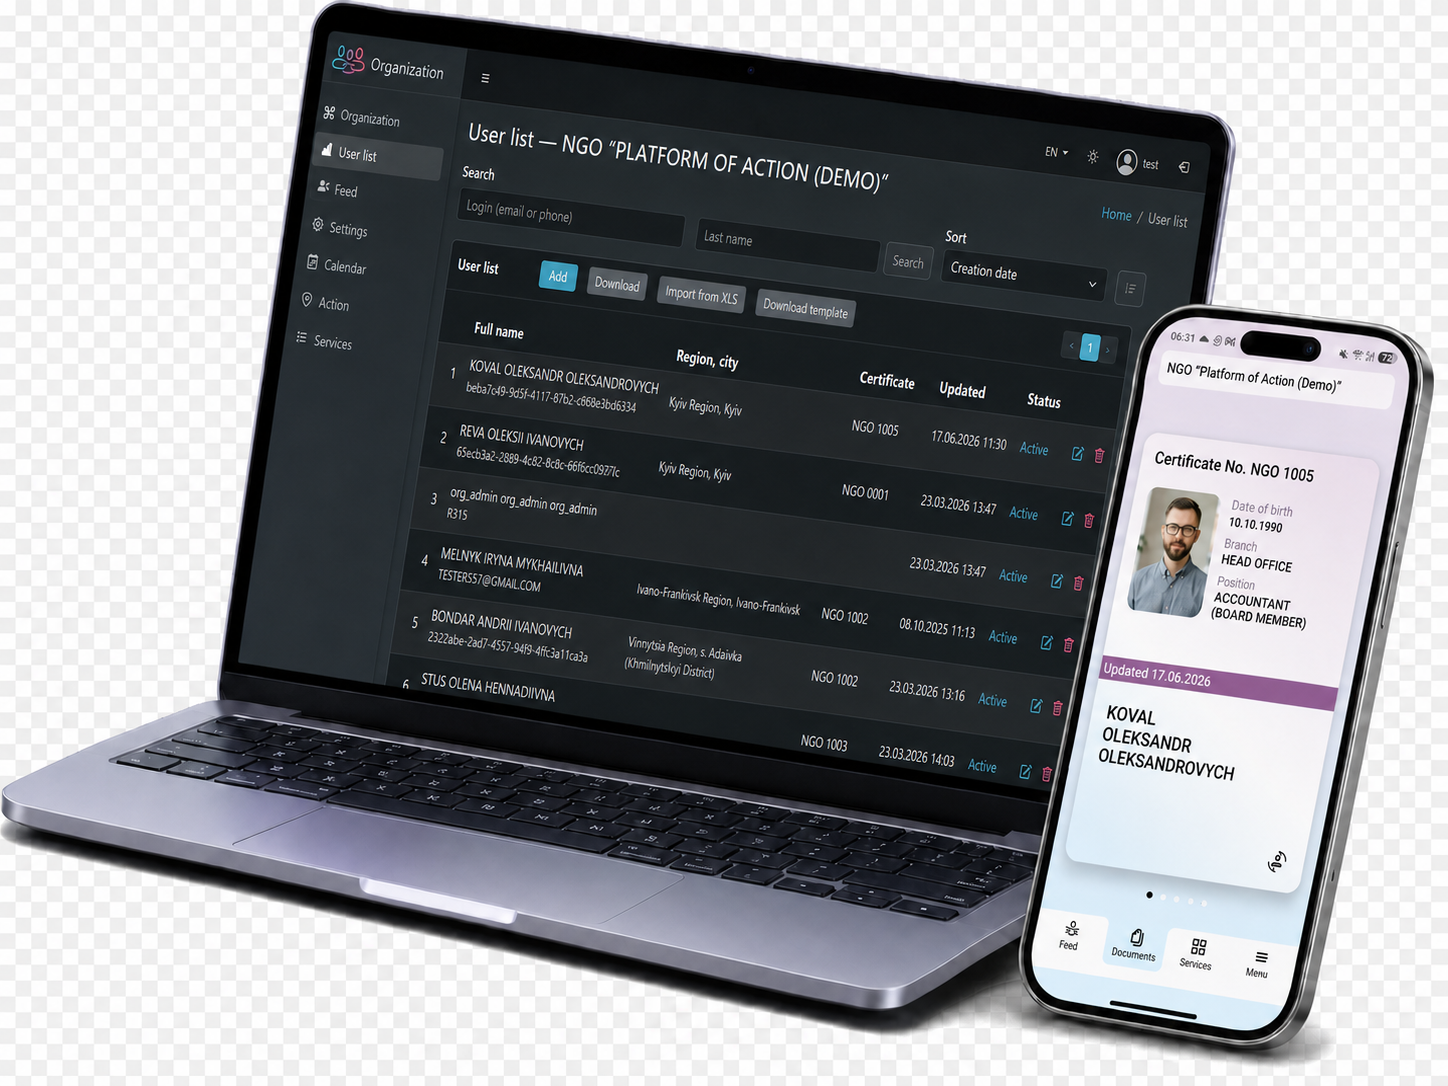
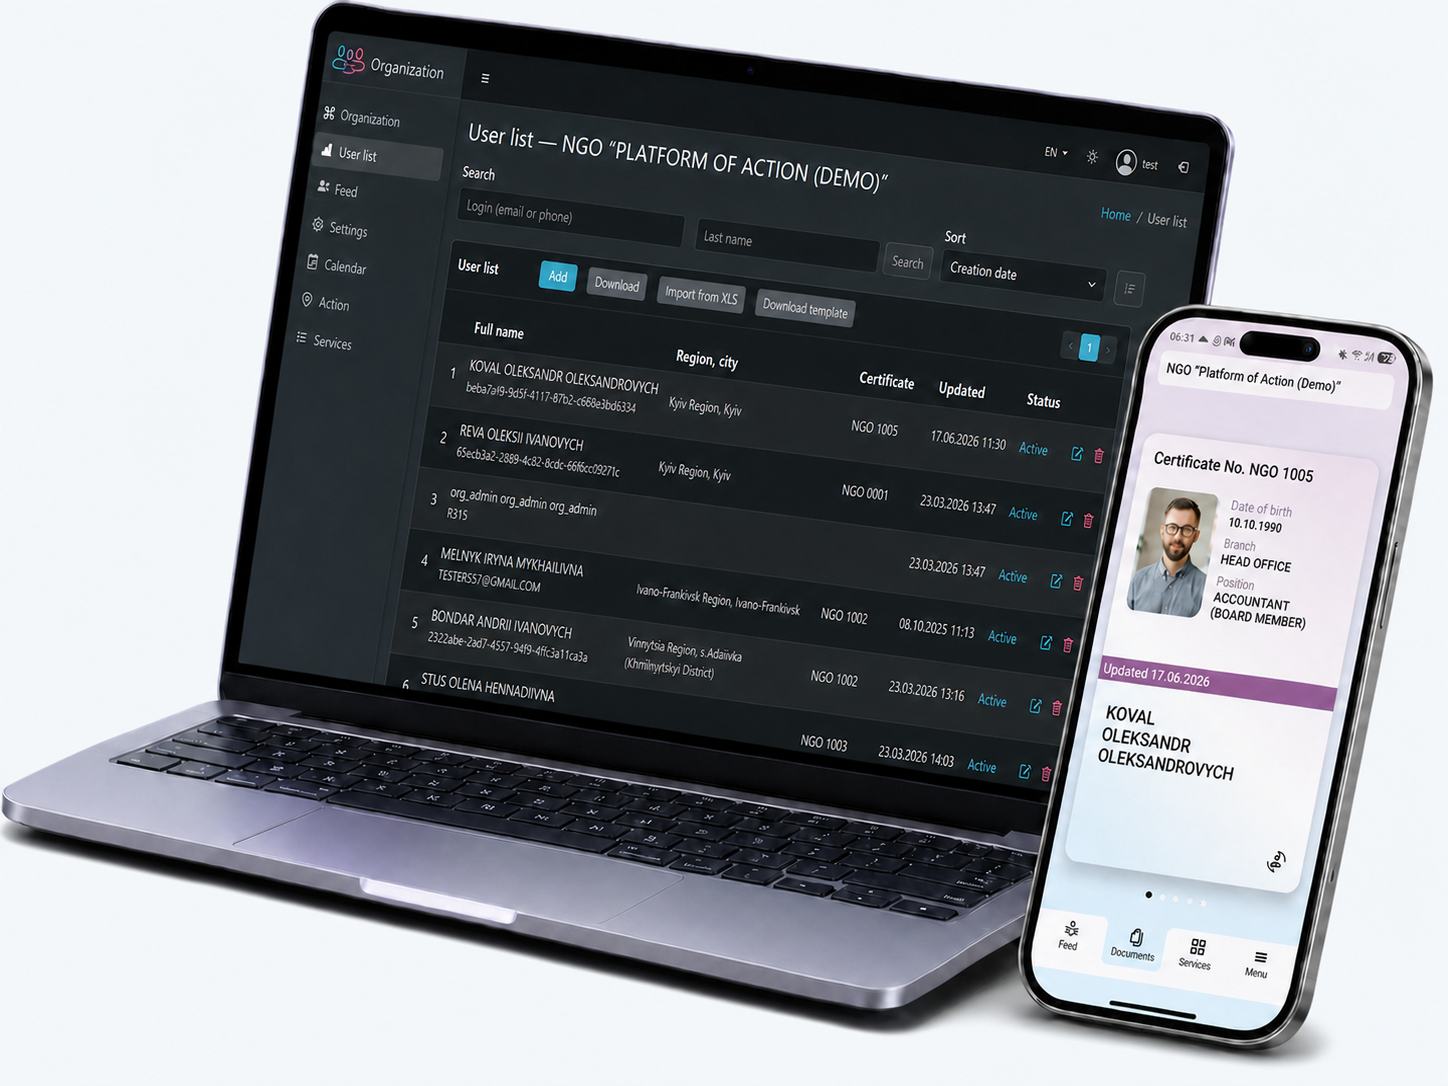
Remove checkerboard backgrounds from product visuals

diff --git a/src/views/Index.vue b/src/views/Index.vue
@@ -274,7 +274,7 @@ const section4 = computed(() => ({
 
 const section5 = computed(() => ({
   img: locale.value === 'ua' ? 'mobile_real_screens_ua.png' : 'mobile_real_screens_en.png',
-  width: locale.value === 'ua' ? 1149 : 1150,
+  width: 1149,
   height: locale.value === 'ua' ? 1369 : 1368,
   alt: localizedImageAlt(5),
   link: `/${locale.value}/mobile-app`,
